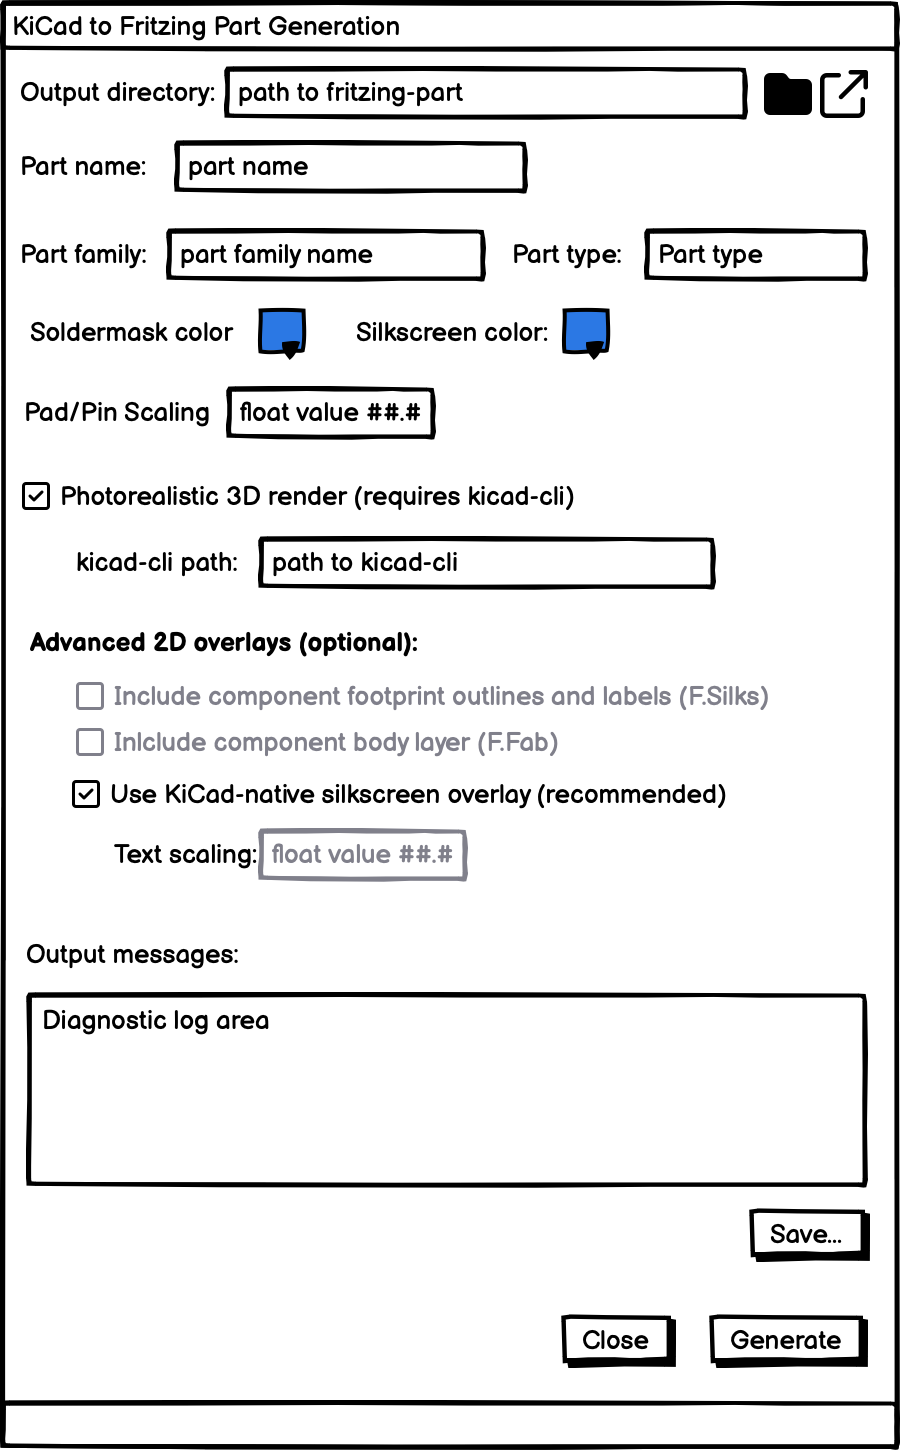
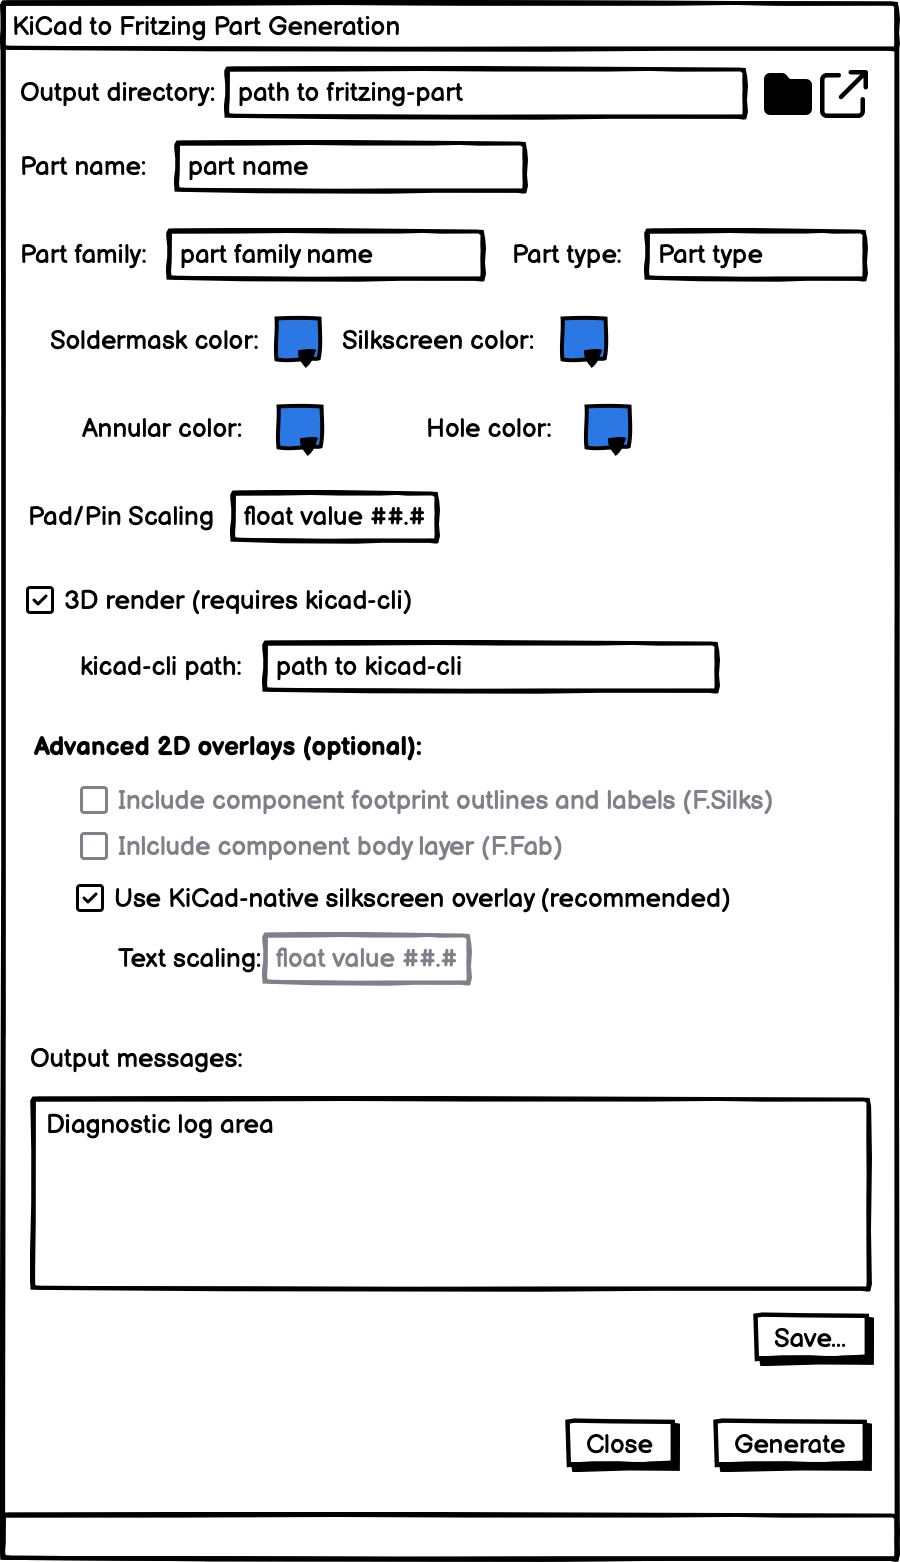
Add configurable connector pad colors and stabilize 3D overlay flow

diff --git a/src/pcb2fritzing/kicad/plugin.py b/src/pcb2fritzing/kicad/plugin.py
@@ -241,6 +241,12 @@ def _remove_custom_silkscreen_elements(svg_root: ET.Element, silkscreen_color: s
     color_lower = silkscreen_color.lower()
 
     def should_remove(elem: ET.Element) -> bool:
+        elem_id = elem.attrib.get("id", "")
+        # Never strip connector pin geometry or board outline during
+        # silkscreen cleanup; these are required for interactivity and
+        # for clipping/alignment in 3D embed mode.
+        if elem_id.startswith("connector") or elem_id == "boardOutline":
+            return False
         stroke = elem.attrib.get("stroke", "").lower()
         fill = elem.attrib.get("fill", "").lower()
         return stroke == color_lower or fill == color_lower
@@ -994,10 +1000,18 @@ class PCBtoFritzingPartDialog(wx.Dialog if wx else object):  # type: ignore
         self.soldermask_color_input = wx.ColourPickerCtrl(panel, colour=wx.Colour("#2b5f82"))
         self.silkscreen_color_label = wx.StaticText(panel, label="Silkscreen color:")
         self.silkscreen_color_input = wx.ColourPickerCtrl(panel, colour=wx.Colour("#f5f5f5"))
+        annular_label = wx.StaticText(panel, label="Annular color:")
+        self.annular_color_input = wx.ColourPickerCtrl(panel, colour=wx.Colour("#ffb300"))
+        hole_label = wx.StaticText(panel, label="Hole color:")
+        self.hole_color_input = wx.ColourPickerCtrl(panel, colour=wx.Colour("#d84315"))
         color_sizer.Add(soldermask_label, 0, wx.ALIGN_CENTER_VERTICAL | wx.RIGHT, 8)
         color_sizer.Add(self.soldermask_color_input, 0, wx.RIGHT, 22)
         color_sizer.Add(self.silkscreen_color_label, 0, wx.ALIGN_CENTER_VERTICAL | wx.RIGHT, 8)
-        color_sizer.Add(self.silkscreen_color_input, 0)
+        color_sizer.Add(self.silkscreen_color_input, 0, wx.RIGHT, 22)
+        color_sizer.Add(annular_label, 0, wx.ALIGN_CENTER_VERTICAL | wx.RIGHT, 8)
+        color_sizer.Add(self.annular_color_input, 0, wx.RIGHT, 22)
+        color_sizer.Add(hole_label, 0, wx.ALIGN_CENTER_VERTICAL | wx.RIGHT, 8)
+        color_sizer.Add(self.hole_color_input, 0)
         sizer.Add(color_sizer, 0, wx.ALL, 10)
 
         # Pad/Pin scaling (moved up to after color pickers)
@@ -1271,6 +1285,11 @@ class PCBtoFritzingPartDialog(wx.Dialog if wx else object):  # type: ignore
         self.generate_btn.Enable(False)
         try:
             self._run_export()
+        except Exception as exc:  # noqa: BLE001
+            import traceback
+
+            self.append_message(f"ERROR: Unexpected export failure: {exc}")
+            self.append_message(traceback.format_exc())
         finally:
             self.generate_btn.Enable(True)
 
@@ -1288,6 +1307,8 @@ class PCBtoFritzingPartDialog(wx.Dialog if wx else object):  # type: ignore
             pad_scale,
             soldermask_color,
             silkscreen_color,
+            annular_color,
+            hole_color,
             part_family,
             part_type,
             use_kicad_native_overlay,
@@ -1319,6 +1340,8 @@ class PCBtoFritzingPartDialog(wx.Dialog if wx else object):  # type: ignore
         render_options = {
             "soldermask_color": soldermask_color,
             "silkscreen_color": silkscreen_color,
+            "annular_color": annular_color,
+            "hole_color": hole_color,
             "pad_scale": pad_scale,
             "silk_text_scale": text_scale,
             "include_component_silkscreen": include_component_silkscreen,
@@ -1327,6 +1350,7 @@ class PCBtoFritzingPartDialog(wx.Dialog if wx else object):  # type: ignore
 
         self.append_message("  Running base export (extractor)...")
         wx.GetApp().Yield()
+        import traceback
         try:
             export_board_to_fritzing_stub(
                 self.board_path,
@@ -1337,8 +1361,9 @@ class PCBtoFritzingPartDialog(wx.Dialog if wx else object):  # type: ignore
                 part_type=part_type,
             )
             self.append_message("  Base export complete.")
-        except Exception as exc:  # noqa: BLE001
-            self.append_message(f"ERROR: Base export failed: {exc}")
+        except Exception as exc:
+            tb = traceback.format_exc()
+            self.append_message(f"ERROR: Base export failed: {exc}\n{tb}")
             return
         wx.GetApp().Yield()
 
@@ -1442,7 +1467,7 @@ class PCBtoFritzingPartDialog(wx.Dialog if wx else object):  # type: ignore
         """Clear all diagnostic messages from the output panel."""
         self.output_messages.SetValue("")
     
-    def get_values(self) -> tuple[str, Path, float, float, str, str, str, str, bool, bool, bool, bool, str]:
+    def get_values(self) -> tuple[str, Path, float, float, str, str, str, str, str, str, bool, bool, bool, bool, str]:
         """Return dialog values including rendering options."""
         part_name = self.part_name_input.GetValue()
         part_family = self.part_family_input.GetValue().strip() or "KiCad2Fritzing Generated"
@@ -1463,6 +1488,8 @@ class PCBtoFritzingPartDialog(wx.Dialog if wx else object):  # type: ignore
 
         soldermask_color = _normalize_hex_color(self.soldermask_color_input.GetColour().GetAsString(wx.C2S_HTML_SYNTAX), "#2b5f82")
         silkscreen_color = _normalize_hex_color(self.silkscreen_color_input.GetColour().GetAsString(wx.C2S_HTML_SYNTAX), "#f5f5f5")
+        annular_color = _normalize_hex_color(self.annular_color_input.GetColour().GetAsString(wx.C2S_HTML_SYNTAX), "#ffb300")
+        hole_color = _normalize_hex_color(self.hole_color_input.GetColour().GetAsString(wx.C2S_HTML_SYNTAX), "#d84315")
 
         use_kicad_native_overlay = bool(self.use_kicad_native_overlay.GetValue())
         include_component_silkscreen = bool(self.include_component_silkscreen.GetValue())
@@ -1476,6 +1503,8 @@ class PCBtoFritzingPartDialog(wx.Dialog if wx else object):  # type: ignore
             pad_scale,
             soldermask_color,
             silkscreen_color,
+            annular_color,
+            hole_color,
             part_family,
             part_type,
             use_kicad_native_overlay,

diff --git a/src/pcb2fritzing/core/extractor.py b/src/pcb2fritzing/core/extractor.py
@@ -52,6 +52,8 @@ HEX_COLOR_RE = re.compile(r"^#[0-9A-Fa-f]{6}$")
 DEFAULT_RENDER_OPTIONS = {
     "soldermask_color": "#2b5f82",
     "silkscreen_color": "#f5f5f5",
+    "annular_color": "#ffb300",
+    "hole_color": "#d84315",
     "pad_scale": 0.75,
     "silk_text_scale": 1.15,
     "include_component_silkscreen": False,
@@ -97,6 +99,14 @@ def _resolve_render_options(render_options: dict | None) -> dict:
     options["silkscreen_color"] = _sanitize_color(
         options.get("silkscreen_color"),
         DEFAULT_RENDER_OPTIONS["silkscreen_color"],
+    )
+    options["annular_color"] = _sanitize_color(
+        options.get("annular_color"),
+        DEFAULT_RENDER_OPTIONS["annular_color"],
+    )
+    options["hole_color"] = _sanitize_color(
+        options.get("hole_color"),
+        DEFAULT_RENDER_OPTIONS["hole_color"],
     )
     options["pad_scale"] = _sanitize_float(
         options.get("pad_scale"),
@@ -1326,11 +1336,14 @@ def _svg_for_view(
         outline_points = " ".join(f"{x},{y}" for x, y in outline)
         pad_radius = _scaled_pad_radius(scale, pad_scale=float(options["pad_scale"]))
         pad_stroke = round(max(0.7, pad_radius * 0.34), 3)
+        # In SVG, fill paints the inner disk and stroke paints the outer ring.
+        pad_inner_fill = str(options["hole_color"])
+        pad_outer_stroke = str(options["annular_color"])
         pins = []
         for i, (x, y) in enumerate(projected):
             pins.append(
                 f'<circle id="connector{i}pin" cx="{x}" cy="{y}" r="{pad_radius}" '
-                f'fill="#ffb300" stroke="#d84315" stroke-width="{pad_stroke}"/>'
+                f'fill="{pad_inner_fill}" stroke="{pad_outer_stroke}" stroke-width="{pad_stroke}"/>'
             )
         silkscreen_svg = _render_svg_silkscreen(
             board_model,
@@ -1415,12 +1428,14 @@ def _svg_for_view(
         pad_scale=float(options["pad_scale"]),
     )
     pad_stroke = round(max(0.8, pad_radius * 0.5), 3)
+    # PCB view uses ring-only connector markers.
+    pad_ring_stroke = str(options["annular_color"])
     top_pins = []
     bottom_pins = []
     for i, (x, y) in enumerate(projected):
         pin_svg = (
             f'<circle id="connector{i}pin" cx="{x}" cy="{y}" r="{pad_radius}" fill="none" '
-            f'stroke="#ff9800" stroke-width="{pad_stroke}"/>'
+            f'stroke="{pad_ring_stroke}" stroke-width="{pad_stroke}"/>'
         )
         top_pins.append(pin_svg)
         bottom_pins.append(pin_svg)

diff --git a/tests/test_extractor.py b/tests/test_extractor.py
@@ -660,6 +660,8 @@ def test_write_placeholder_svg_views_applies_render_options(tmp_path: Path) -> N
         render_options={
             "soldermask_color": "#123456",
             "silkscreen_color": "#ddeeff",
+            "annular_color": "#00aa55",
+            "hole_color": "#2244cc",
             "pad_scale": 0.5,
             "silk_text_scale": 1.2,
         },
@@ -671,7 +673,9 @@ def test_write_placeholder_svg_views_applies_render_options(tmp_path: Path) -> N
     assert 'fill="#123456"' in breadboard
     assert 'fill="#123456"' in pcb
     assert 'fill="#ddeeff"' in breadboard
-    assert 'r="1.9" fill="#ffb300"' in breadboard
+    assert 'r="1.9" fill="#2244cc"' in breadboard
+    assert 'stroke="#00aa55"' in breadboard
+    assert 'stroke="#00aa55"' in pcb
 
 
 def test_validate_generated_artifacts_success(tmp_path: Path) -> None: